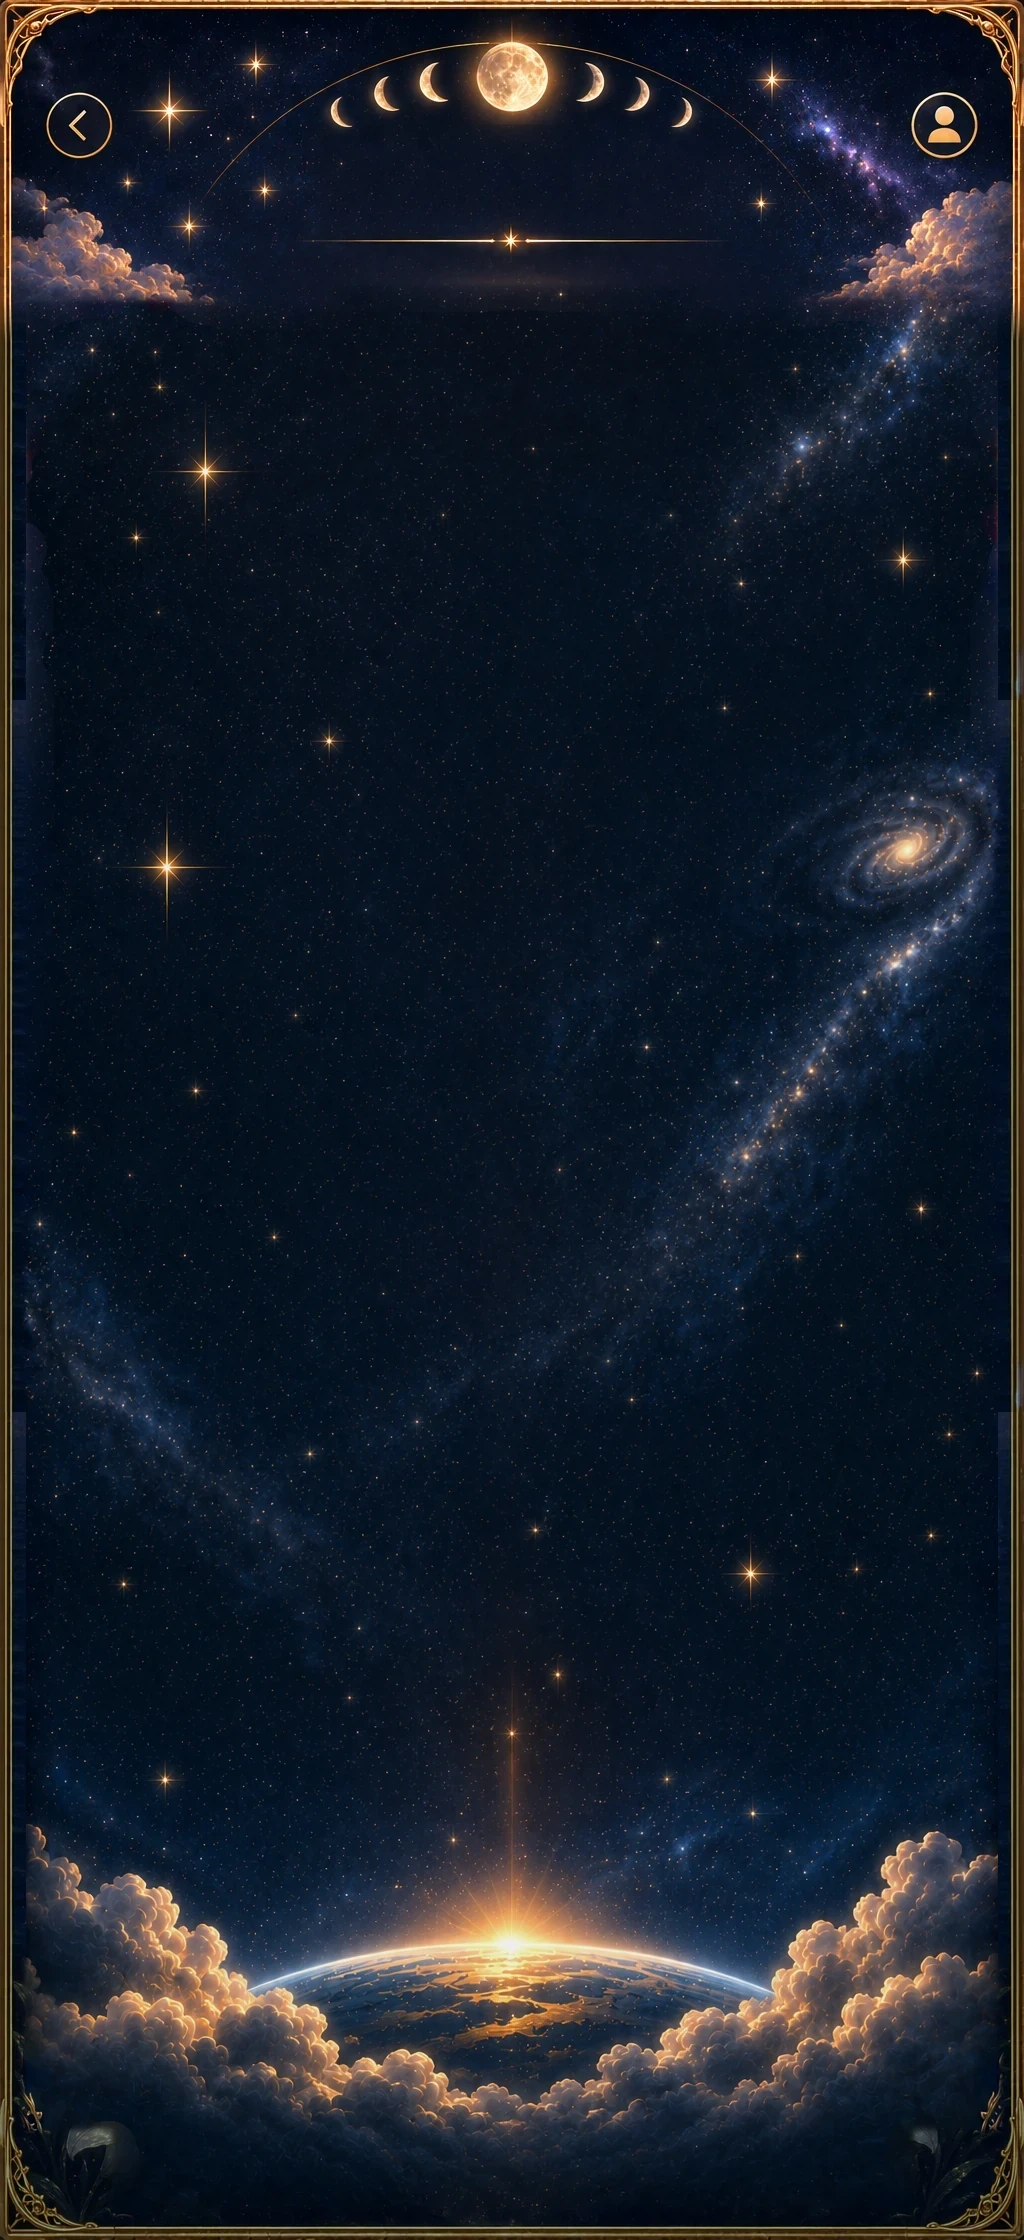
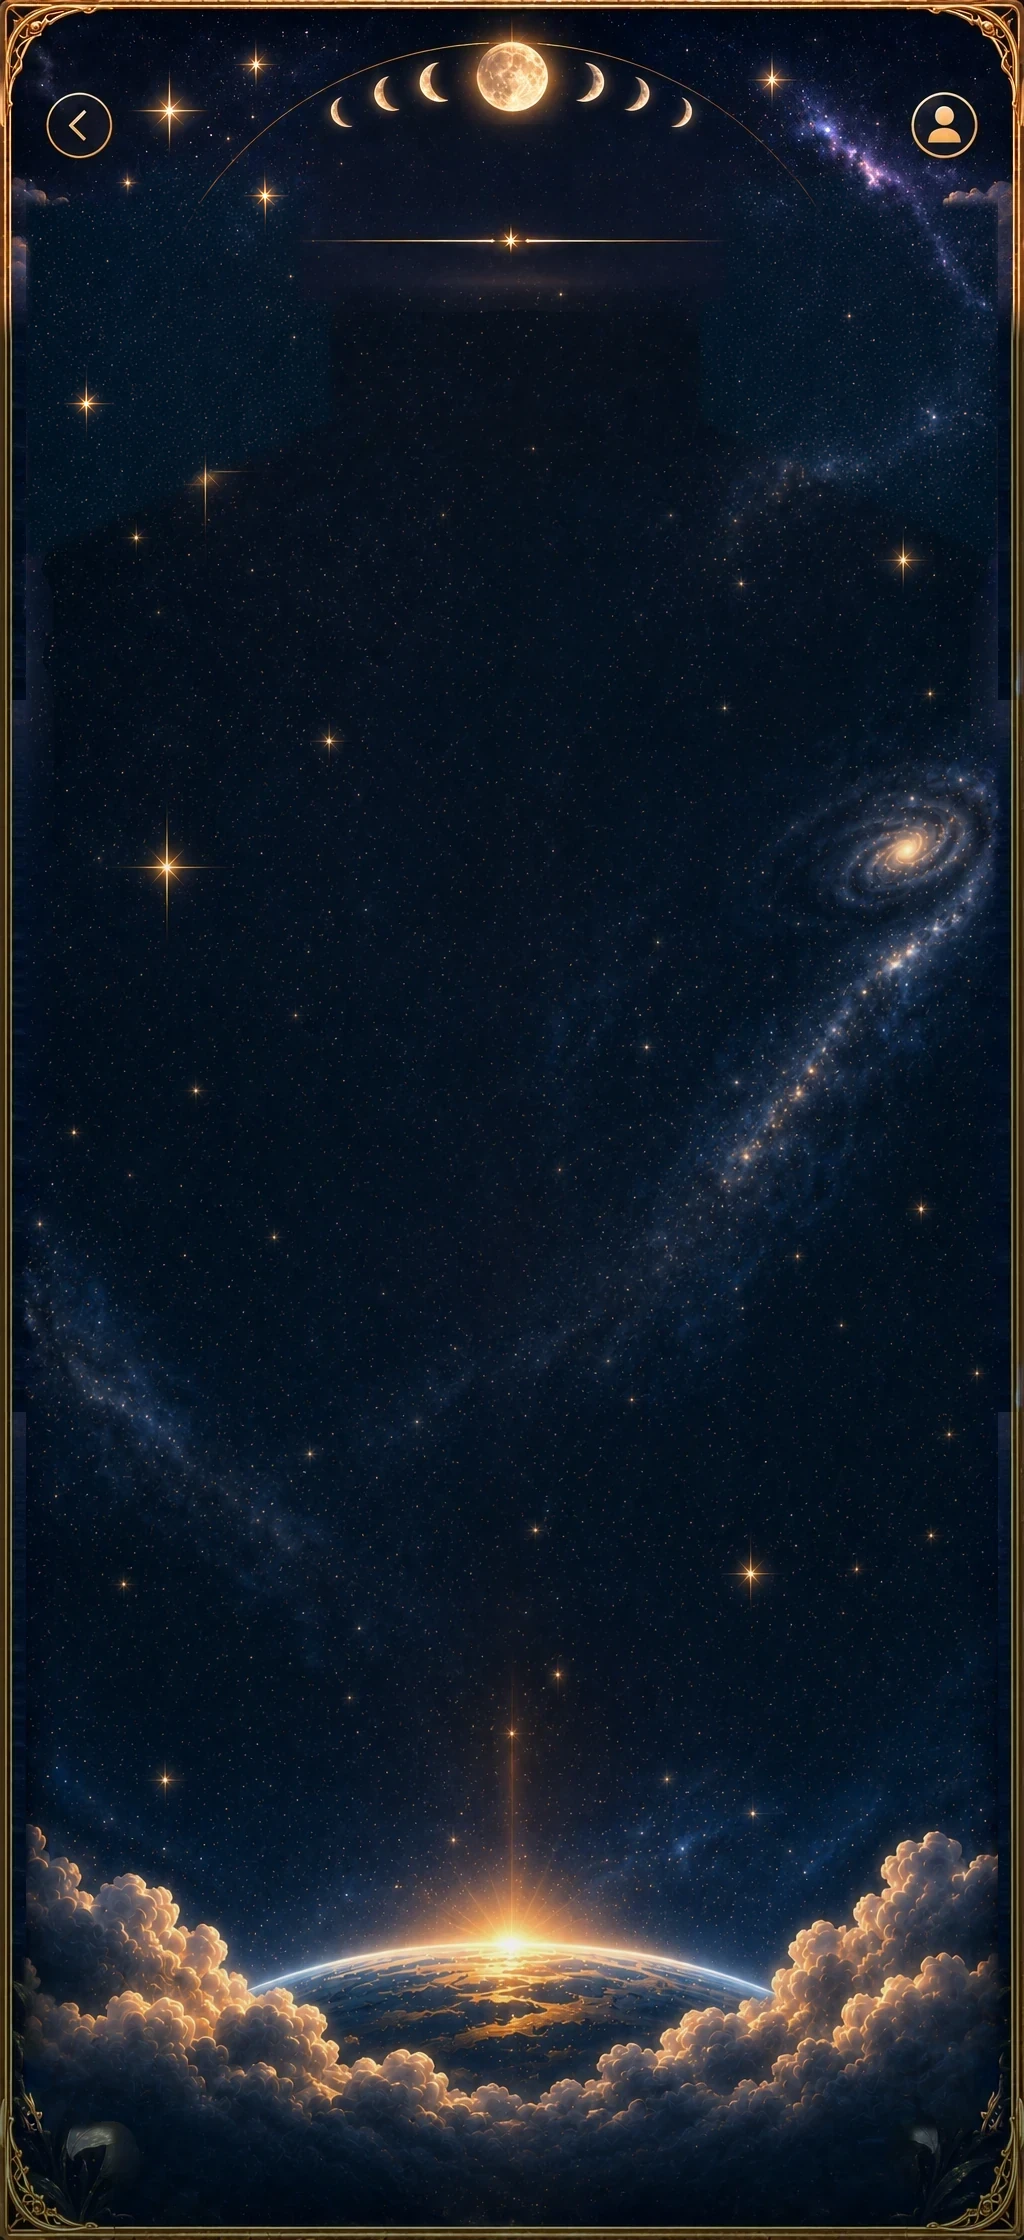
Sky pages: all four cards one size (the ritual card's), each with an arrow that opens it to read the rest; seam-free card art (stretched only in height, the ritual bowl a separate piece); planets larger, clouds removed from the upper planet sky

diff --git a/public/app.js b/public/app.js
@@ -3553,42 +3553,54 @@ const SPH=[1744,1984,2240],SKT=[[49,924,70],[49,924,64],[49,924,66]],SKL=185,SKX
 // each page's icons for the cards [file prefix, [w,h] each], set in the middle of the card's round end
 const SKI={moon:['moon',[[139,108],[123,121],[126,94]]],sun:['sun',[[166,96],[156,154],[136,96]]],pl:['pl',[[130,95],[128,122],[126,105]]]};
 const skHead=(title,sub)=>`${tx('sk-t',182,138,660,98,title,82)}${tx('sk-k',112,252,800,34,sub,25)}`;
+// the four cards: one size (the ritual card's), each with an arrow on its right that opens it to read the rest
+const SKA='<button class="spa" aria-label="Read more"><svg viewBox="0 0 40 40" aria-hidden="true"><path d="M13 16l7 8 7-8"/></svg></button>';
 function spCards(n,bodies,rit){
- const [f,ics]=SKI[n];
+ const [f,ics]=SKI[n],o=V.spo||{};
  return `${[0,1,2].map(k=>{const [x,w,T]=SKT[k],[iw,ih]=ics[k];
-  return `<div class="spc" data-k="${k}" style="left:${x}px;top:0;width:${w}px;height:${SKHB}px;border-width:${T}px 90px 30px ${SKL}px;border-image:url(${SKY}sp-moon-t${k}.webp) ${T} 90 30 ${SKL} fill stretch">
-   <img class="spi" src="${SKY}sp-${f}-i${k}.webp" alt="" style="left:${110-iw/2-SKL}px;width:${iw}px;height:${ih}px">
-   <div class="spx sp-b${k===2?' sp-l':''}" style="left:${SKX-SKL}px;top:-2px;width:${w-SKX-58}px">${bodies[k]}</div></div>`}).join('')}
-  <div class="spc spr" style="left:49px;top:0;width:924px;height:${SKRH}px;background-image:url(${SKY}sp-moon-t3.webp)">${rit}</div>`;
+  return `<div class="spc${o[k]?' open':''}" data-k="${k}" style="left:${x}px;top:0;width:${w}px;height:${SKRH}px;border-width:${T}px 0 30px 0;border-image:url(${SKY}sp-moon-t${k}.webp) ${T} 0 30 0 fill stretch;background:url(${SKY}sp-moon-m${k}.webp) 0 ${T}px/100% calc(100% - ${T+30}px) no-repeat;background-origin:border-box;background-clip:border-box">
+   <img class="spi" src="${SKY}sp-${f}-i${k}.webp" alt="" style="left:${110-iw/2}px;width:${iw}px;height:${ih}px">
+   <div class="spx sp-b${k===2?' sp-l':''}" style="left:${SKX}px;top:-2px;width:${w-SKX-70}px">${bodies[k]}</div>${SKA}</div>`}).join('')}
+  <div class="spc spr${o[3]?' open':''}" data-k="3" style="left:49px;top:0;width:924px;height:${SKRH}px;border-width:100px 0 30px 0;border-image:url(${SKY}sp-rit-card.webp) 100 0 30 0 fill stretch;background:url(${SKY}sp-rit-mid.webp) 0 90px/100% calc(100% - 115px) no-repeat;background-origin:border-box;background-clip:border-box">
+   <img class="spi" src="${SKY}sp-rit-bowl.webp" alt="" style="left:48px;width:124px;height:149px">${rit}${SKA}</div>`;
 }
-const skRit=(name,desc)=>`${tx('sp-rn',186,86,316,52,name,32)}${tx('sp-rd',528,14,356,156,desc,30)}`;
-// lay a page out for this screen: the painting nearest its shape; the cards sized to their words; on the Moon and Sun the
-// cards start beneath the painted Moon or Sun, on a planet they rest above the Earth's horizon and the planet fills the room above
+const skRit=(name,desc)=>`${tx('sp-rn',186,-14,316,52,name,32)}<div class="spx sp-rd">${desc}</div>`;
+// lay a page out for this screen: the painting nearest its shape; the cards one size, an opened card as tall as its words;
+// on the Moon and Sun the cards start beneath the painted Moon or Sun, on a planet they rest above the Earth's horizon and the
+// planet fills the room above; if opened cards need more room than the screen, the cards scroll over the painting
 function skLay(t,n,sc,hr,H){
  const ch=SPH.reduce((a,b)=>Math.abs(Math.log(b/hr))<Math.abs(Math.log(a/hr))?b:a),sy=H/ch,k=sy/sc;
  t.style.setProperty('--img',`url(${SKY}${n==='pl'?'pl-bg':'sp-'+n}-${ch}.webp)`);
- const cards=[...t.querySelectorAll('.spc')],hh=cards.map((c,i)=>{if(i>2)return SKRH;const b=c.querySelector('.sp-b');b.style.height='auto';
-  return Math.max(SKHB,SKT[i][2]+b.scrollHeight+30)});
- let gap=16,cs=hh.reduce((a,b)=>a+b,0)+3*gap;
- const top0=n==='pl'?310*k:642*k,bottom=hr*(n==='pl'?.87:.965),room=bottom-top0;
- const fs=Math.min(1,(n==='pl'?room-200:room)/cs);
- let y=n==='pl'?bottom-cs*fs:top0+Math.max(8,Math.min(30,(room-cs)*.12));
- cards.forEach((c,i)=>{c.style.top=y+'px';c.style.transform=fs<1?`scale(${fs})`:'';c.style.height=hh[i]+'px';const T=i<3?SKT[i][2]:0;
-  const im=c.querySelector('.spi');if(im)im.style.top=(hh[i]/2-parseFloat(im.style.height)/2-T)+'px';
-  const b=c.querySelector('.sp-b');if(b)b.style.height=(hh[i]-T-30)+'px';y+=(hh[i]+gap)*fs});
- if(n==='pl'){const Z=bottom-cs*fs-gap-top0,cy=top0+Z/2,ph=Math.min(Z*.9,600),cf=Math.min(1,Z/280);
-  const p=t.querySelector('.plp');if(p){const r=+p.dataset.r,h=r>1?Math.min(ph*.62,560/r):ph,w=h*r;p.style.cssText=`left:${512-w/2}px;top:${cy-h/2}px;width:${w}px;height:${h}px`}
-  const g=t.querySelector('.plg');if(g){const s=Math.min(ph*.26,130);g.style.cssText=`left:${512-s/2}px;top:${cy-s/2}px;width:${s}px;height:${s}px`}
+ const cards=[...t.querySelectorAll('.spc')],gap=14;
+ const hh=cards.map((c,i)=>{const T=i<3?SKT[i][2]:100,b=c.querySelector(i<3?'.sp-b':'.sp-rd');if(!b)return SKRH;
+  b.style.height='';const full=b.scrollHeight,room=SKRH-T-30;c.classList.toggle('more',full>room+2);
+  const h=c.classList.contains('open')?Math.max(SKRH,T+full+30+(i<3?0:-56)):SKRH;b.style.height=(i<3?h-T-30:h-100+56)+'px';return h});
+ const cs0=4*SKRH+3*gap,top0=n==='pl'?300*k:642*k,bottom=hr*(n==='pl'?.9:.965),room=bottom-top0;
+ const fs=Math.min(1,(n==='pl'?room-360:room)/cs0);
+ let y=n==='pl'?bottom-cs0*fs:top0+Math.max(8,Math.min(30,(room-cs0)*.12));
+ cards.forEach((c,i)=>{c.style.top=y+'px';c.style.height=hh[i]+'px';c.style.transform=fs<1?`scale(${fs})`:'';
+  const im=c.querySelector('.spi'),T=i<3?SKT[i][2]:100;if(im)im.style.top=(SKRH/2-parseFloat(im.style.height)/2-T)+'px';
+  y+=(hh[i]+gap)*fs});
+ const lay=t.querySelector('.spl');if(lay)lay.style.height=Math.max(hr,y+40)+'px';
+ if(n==='pl'){const Z=bottom-cs0*fs-gap-top0,cy=top0+Z/2,ph=Math.min(Z*1.02,590),cf=Math.min(1,Z/300);
+  const p=t.querySelector('.plp');if(p){const r=+p.dataset.r,h=r>1?Math.min(ph*.7,700/r):ph,w=h*r;p.style.cssText=`left:${512-w/2}px;top:${cy-h/2}px;width:${w}px;height:${h}px`}
+  const g=t.querySelector('.plg');if(g){const s=Math.min(ph*.24,130);g.style.cssText=`left:${512-s/2}px;top:${cy-s/2}px;width:${s}px;height:${s}px`}
   t.querySelectorAll('.plx [data-cy]').forEach(e=>{e.style.top=(cy+ +e.dataset.cy*cf)+'px';e.style.transformOrigin='50% 0';e.style.transform=cf<1?`scale(${cf})`:''})}
  return {ch,th:ch,sy};
 }
+document.addEventListener('click',e=>{
+ if(V.sec!=='horoscope'||!V.skp)return;
+ const c=e.target.closest('#rov .spc');if(!c||!c.classList.contains('more')&&!c.classList.contains('open'))return;
+ const k=+c.dataset.k;V.spo=Object.assign({},V.spo);V.spo[k]=!V.spo[k];c.classList.toggle('open',!!V.spo[k]);
+ const b=c.querySelector('.spa');if(b)b.setAttribute('aria-label',V.spo[k]?'Show less':'Read more');fit();
+});
 function moonPop(){
  const now=new Date(),m=K.moon(now),si=sIdx(m.sign),r=skyRel(m.sign),ph=MPH[m.name],[l1,l2]=m.name.split(' ');
  const nx=(K.lunarPhases(now,new Date(+now+40*DAY))||[]).find(e=>e.date>now&&!(m.name.startsWith(e.name.replace(' Moon','').split(' ')[0])&&m.name.includes(e.name.split(' ')[0])&&+e.date-now<4*DAY)),nn=nx?nx.name.replace(' Moon','').replace('New','New Moon').replace('Full','Full Moon'):'';
  const nd=nx?nx.date.toLocaleDateString('en-GB',{day:'numeric',month:'short',year:'numeric',timeZone:TZ()}):'';
  const k=m.ill,cx=510,cy=440,R=141,rx=Math.abs(1-2*k)*R,flip=(!m.waxing)!==SOUTH();
  const shade=k>.97?'':`<svg class="sp-ph" viewBox="0 0 1024 1000" style="left:0;top:0;width:1024px;height:1000px" aria-hidden="true"><defs><filter id="spb" x="-20%" y="-20%" width="140%" height="140%"><feGaussianBlur stdDeviation="5"/></filter></defs><path filter="url(#spb)" transform="${flip?`translate(${2*cx} 0) scale(-1 1)`:''}" d="M${cx} ${cy-R}A${R} ${R} 0 0 0 ${cx} ${cy+R}A${rx} ${R} 0 0 ${k<.5?0:1} ${cx} ${cy-R}Z" fill="rgba(8,10,28,.85)"/></svg>`;
- const cards=`<div class="spl">${spCards('moon',[ph[0],`In ${si.name}, ${MSG[si.id][1]}. For you it falls ${REL_IN[r.rel]}, so your feelings gather around ${areaShort(r.area)}.`,dots(ph[1])],skRit(ph[2],ph[3]))}</div>`;
+ const cards=`<div class="spw"><div class="spl">${spCards('moon',[ph[0],`In ${si.name}, ${MSG[si.id][1]}. For you it falls ${REL_IN[r.rel]}, so your feelings gather around ${areaShort(r.area)}.`,dots(ph[1])],skRit(ph[2],ph[3]))}</div></div>`;
  return pane('rmoon',`The Moon. ${m.name} in ${si.name}.`,'',`${shade}
   ${tx('sp-big',110,372,214,110,`${l1}<br>${l2||''}`,47)}${tx('sp-sm c',110,478,214,32,`${Math.round(k*100)}% Illuminated`,25)}
   <img class="sp-g" src="${SKY}sk-g-${si.id}.webp" alt="" style="left:741px;top:326px;width:48px;height:48px">
@@ -3599,7 +3611,7 @@ function moonPop(){
 function sunPop(){
  const now=new Date(),si=sIdx(K.signIdx(K.positions(now)[0].lon)),r=skyRel(SIGNS.indexOf(si)),me=sg(S.sign),x=SSG[si.id],rt=SRIT[si.el];
  const seas=SEAS[(SIGNS.indexOf(si)+(SOUTH()?6:0))%12].replace(' into ','<br>into ');
- const cards=`<div class="spl">${spCards('sun',[x[1],`For ${me.name}, the Sun is ${REL_IN[r.rel]}, lighting ${areaShort(r.area)}. For all signs, ${x[2]}`,dots(x[3])],skRit(rt[0],rt[1]))}</div>`;
+ const cards=`<div class="spw"><div class="spl">${spCards('sun',[x[1],`For ${me.name}, the Sun is ${REL_IN[r.rel]}, lighting ${areaShort(r.area)}. For all signs, ${x[2]}`,dots(x[3])],skRit(rt[0],rt[1]))}</div></div>`;
  return pane('rsun',`The Sun in ${si.name}.`,'',`
   <img class="sp-g" src="${SKY}sk-g-${si.id}.webp" alt="" style="left:144px;top:362px;width:68px;height:68px">
   ${tx('sp-big',86,428,184,46,si.name,40)}${tx('sp-sm c',80,476,196,30,si.dates,22)}
@@ -3649,7 +3661,7 @@ function planetPop(P){
  const mean=`For ${me.name}, ${P} is ${REL_IN[r.rel]}, touching ${areaShort(r.area)}. ${PLM[P]}${RULER[S.sign]===P?` As your ruling planet, you feel it more than most.`:''}`;
  const todo=rx?[PRX[P],...PLD[P].slice(1)]:PLD[P];
  const cy=0,ry=y=>`data-cy="${y}"`,pc=(cls,x,y,w,h,html,f)=>tx(cls,x,0,w,h,html,f).replace('class="spx','data-cy="'+y+'" class="spx');
- const lay=`<div class="spl plx">
+ const lay=`<div class="spw"><div class="spl plx">
   <img class="plp" src="${SKY}pl-p-${k}.webp" alt="" data-r="${PLR_[k]||1}">
   <img class="sp-g plg" src="${SKY}pl-g-${k}.webp" alt="">
   ${pc('sp-big pl-s',40,-132,188,40,'Current Sign',31)}
@@ -3658,7 +3670,7 @@ function planetPop(P){
   <img class="sp-g" ${ry(-120)} src="${SKY}pl-rx.webp" alt="" style="left:800px;width:190px;height:142px">
   ${pc('sp-sm c pl-r',796,24,186,40,rx?(rx.end?`Until ${fdate(rx.end,true)}`:'Retrograde now'):'Not Retrograde',27)}
   ${spCards('pl',[happen,mean,dots(todo)],skRit(PLR[P][0],PLR[P][1]))}
- </div>`;
+ </div></div>`;
  return pane('rpl',`${P} in ${si.name}.`,'',`
   ${skHead(P,PLK[P].join(' <i>•</i> '))}${spBar()}`,'',lay);
 }
@@ -3704,7 +3716,7 @@ document.addEventListener('click',e=>{
 function spFit(){document.querySelectorAll('.spx[data-f]').forEach(e=>{const d=e.style.display;e.style.display='block';let f=+e.dataset.f;e.style.fontSize=f+'px';while((e.scrollHeight>e.clientHeight+1||e.scrollWidth>e.clientWidth+1)&&f>11){f-=.5;e.style.fontSize=f+'px'}e.style.display=d})}
 document.addEventListener('click',e=>{
  if(V.sec!=='horoscope')return;
- const o=e.target.closest('[data-skp]');if(o){V.skp=o.dataset.skp;V.skpIn=false;return render()}
+ const o=e.target.closest('[data-skp]');if(o){V.skp=o.dataset.skp;V.skpIn=false;V.spo={};return render()}
  if(e.target.closest('[data-skx]')){V.exploreSign=null;const t=document.querySelector('#rov .rt');if(t)t.classList.remove('in');const ov=document.getElementById('rov');if(ov)ov.classList.remove('on');setTimeout(()=>{V.skp=null;render()},500)}
 });
 document.addEventListener('keydown',e=>{if(V.sec==='horoscope'&&V.skp&&e.key==='Escape'){V.skp=null;render()}});

diff --git a/public/ritual.css b/public/ritual.css
@@ -179,7 +179,7 @@ body:has(.sky0) .toast{bottom:calc(var(--rnh,80px) + env(safe-area-inset-bottom,
 #app .spc{position:absolute;box-sizing:border-box;border-style:solid}
 #app .spc .spi{position:absolute;pointer-events:none}
 #app .spc .spx{position:absolute}
-#app .spc.spr{border:0;background:0 0/100% 100% no-repeat}
+#app .spc.spr{border-style:solid}
 #app .spc .sp-b{line-height:1.15;display:flex;flex-direction:column;justify-content:center}
 #app .pl-t{text-align:center;font-style:italic;font-weight:600;line-height:1;color:#F4DFB2;text-shadow:0 0 18px rgba(240,190,90,.45),0 0 4px rgba(4,7,22,.9);display:flex;align-items:center;justify-content:center}
 #app .pl-k{text-align:center;font-family:'Cinzel',Georgia,serif;font-style:normal;font-weight:500;letter-spacing:.2em;color:#EBD7A8;white-space:nowrap;display:flex;align-items:center;justify-content:center}
@@ -220,3 +220,19 @@ body:has(.sky0) .toast{bottom:calc(var(--rnh,80px) + env(safe-area-inset-bottom,
 #app #rsg .sg-row i{align-self:stretch;background:linear-gradient(transparent,rgba(120,74,30,.55) 20%,rgba(120,74,30,.55) 80%,transparent)}
 #app #rsg .sg-l{font:600 29px/1.2 'Cinzel',Georgia,serif;letter-spacing:.28em;color:#241508;margin-bottom:8px}
 #app #rsg .sg-x{font:italic 500 39px/1.3 'Cormorant Garamond',serif}
+/* the cards: one size, an arrow to open each; opened cards scroll over the painting */
+#app .spw{position:absolute;inset:0;z-index:3;overflow-y:auto;overflow-x:hidden;overscroll-behavior:contain;scrollbar-width:none;pointer-events:none;-webkit-overflow-scrolling:touch}
+#app .spw::-webkit-scrollbar{display:none}
+#app .spw .spl{pointer-events:none}
+#app .spw .spc{pointer-events:auto}
+#app .spc .sp-b{display:block!important;overflow:hidden;font-size:36px!important;line-height:1.2}
+#app .spc .sp-b.sp-l{font-size:35px!important}
+#app .spc.more:not(.open) .sp-b,#app .spc.more:not(.open) .sp-rd{-webkit-mask:linear-gradient(#000 55%,transparent);mask:linear-gradient(#000 55%,transparent)}
+#app .spc.spr .sp-rd{left:528px;top:-86px;width:322px;font-size:32px;line-height:1.2;overflow:hidden;display:block;color:#21150a;font-style:italic;font-weight:600}
+#app .spa{position:absolute;right:28px;top:calc(50% - 24px);width:48px;height:48px;display:none;place-items:center;border:0;background:none;padding:0;cursor:pointer}
+#app .spc.spr .spa{top:-58px}
+#app .spc.more .spa,#app .spc.open .spa{display:grid}
+#app .spa svg{width:40px;height:40px;fill:none;stroke:#E9C987;stroke-width:3;stroke-linecap:round;stroke-linejoin:round;transition:transform .35s;filter:drop-shadow(0 0 4px rgba(240,190,90,.6))}
+#app .spc.spr .spa svg{stroke:#5a3612;filter:none}
+#app .spc.open .spa svg{transform:rotate(180deg)}
+#app .spc{cursor:pointer}
